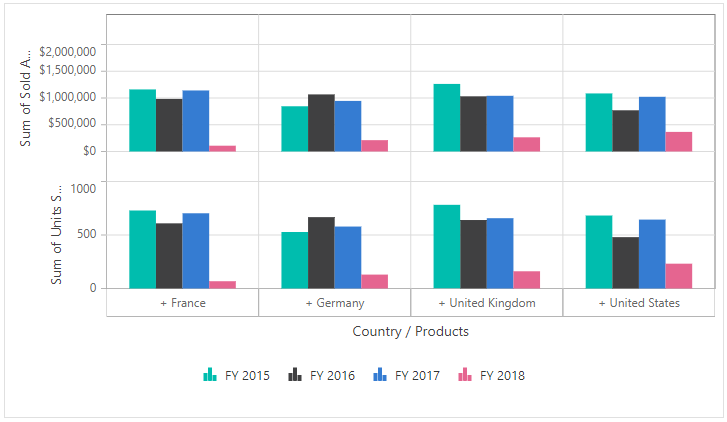
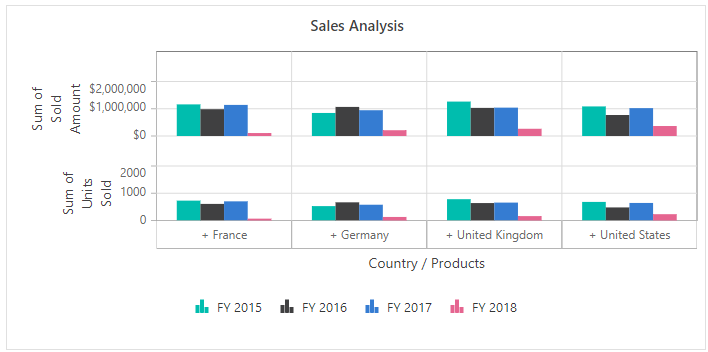
documentation(EJ2-67529): Added chart-combinedYAxis sample.

diff --git a/ej2-asp-core-mvc/code-snippet/pivot-table/pivot-chart/single-combined-y-axis/combinedYAxis.cs b/ej2-asp-core-mvc/code-snippet/pivot-table/pivot-chart/single-combined-y-axis/combinedYAxis.cs
@@ -1,0 +1,178 @@
+public ActionResult Index()
+{
+    var data = GetPivotData();
+    ViewBag.DataSource = data;
+    return View();
+}
+
+public List<PivotData> GetPivotData()
+{
+    List<PivotData> pivotData = new List<PivotData>();
+    pivotData.Add(new PivotData { Sold = 31, Amount = 52824, Country = "France", Products = "Mountain Bikes", Year = "FY 2015", Quarter = "Q1" });
+    pivotData.Add(new PivotData { Sold = 51, Amount = 86904, Country = "France", Products = "Mountain Bikes", Year = "FY 2015", Quarter = "Q2" });
+    pivotData.Add(new PivotData { Sold = 90, Amount = 153360, Country = "France", Products = "Mountain Bikes", Year = "FY 2015", Quarter = "Q3" });
+    pivotData.Add(new PivotData { Sold = 25, Amount = 42600, Country = "France", Products = "Mountain Bikes", Year = "FY 2015", Quarter = "Q4" });
+    pivotData.Add(new PivotData { Sold = 27, Amount = 46008, Country = "France", Products = "Mountain Bikes", Year = "FY 2016", Quarter = "Q1" });
+    pivotData.Add(new PivotData { Sold = 49, Amount = 83496, Country = "France", Products = "Mountain Bikes", Year = "FY 2016", Quarter = "Q2" });
+    pivotData.Add(new PivotData { Sold = 95, Amount = 161880, Country = "France", Products = "Mountain Bikes", Year = "FY 2016", Quarter = "Q3" });
+    pivotData.Add(new PivotData { Sold = 67, Amount = 114168, Country = "France", Products = "Mountain Bikes", Year = "FY 2016", Quarter = "Q4" });
+    pivotData.Add(new PivotData { Sold = 75, Amount = 127800, Country = "France", Products = "Mountain Bikes", Year = "FY 2017", Quarter = "Q1" });
+    pivotData.Add(new PivotData { Sold = 67, Amount = 114168, Country = "France", Products = "Mountain Bikes", Year = "FY 2017", Quarter = "Q2" });
+    pivotData.Add(new PivotData { Sold = 69, Amount = 117576, Country = "France", Products = "Mountain Bikes", Year = "FY 2017", Quarter = "Q3" });
+    pivotData.Add(new PivotData { Sold = 90, Amount = 153360, Country = "France", Products = "Mountain Bikes", Year = "FY 2017", Quarter = "Q4" });
+    pivotData.Add(new PivotData { Sold = 16, Amount = 27264, Country = "France", Products = "Mountain Bikes", Year = "FY 2018", Quarter = "Q1" });
+    pivotData.Add(new PivotData { Sold = 83, Amount = 124422, Country = "France", Products = "Road Bikes", Year = "FY 2015", Quarter = "Q1" });
+    pivotData.Add(new PivotData { Sold = 57, Amount = 85448, Country = "France", Products = "Road Bikes", Year = "FY 2015", Quarter = "Q2" });
+    pivotData.Add(new PivotData { Sold = 20, Amount = 29985, Country = "France", Products = "Road Bikes", Year = "FY 2015", Quarter = "Q3" });
+    pivotData.Add(new PivotData { Sold = 93, Amount = 139412, Country = "France", Products = "Road Bikes", Year = "FY 2015", Quarter = "Q4" });
+    pivotData.Add(new PivotData { Sold = 35, Amount = 52470, Country = "France", Products = "Road Bikes", Year = "FY 2016", Quarter = "Q1" });
+    pivotData.Add(new PivotData { Sold = 28, Amount = 41977, Country = "France", Products = "Road Bikes", Year = "FY 2016", Quarter = "Q2" });
+    pivotData.Add(new PivotData { Sold = 48, Amount = 71957, Country = "France", Products = "Road Bikes", Year = "FY 2016", Quarter = "Q3" });
+    pivotData.Add(new PivotData { Sold = 36, Amount = 53969, Country = "France", Products = "Road Bikes", Year = "FY 2016", Quarter = "Q4" });
+    pivotData.Add(new PivotData { Sold = 25, Amount = 37480, Country = "France", Products = "Road Bikes", Year = "FY 2017", Quarter = "Q1" });
+    pivotData.Add(new PivotData { Sold = 69, Amount = 103436, Country = "France", Products = "Road Bikes", Year = "FY 2017", Quarter = "Q2" });
+    pivotData.Add(new PivotData { Sold = 16, Amount = 23989, Country = "France", Products = "Road Bikes", Year = "FY 2017", Quarter = "Q3" });
+    pivotData.Add(new PivotData { Sold = 28, Amount = 41977, Country = "France", Products = "Road Bikes", Year = "FY 2017", Quarter = "Q4" });
+    pivotData.Add(new PivotData { Sold = 19, Amount = 28486, Country = "France", Products = "Road Bikes", Year = "FY 2018", Quarter = "Q1" });
+    pivotData.Add(new PivotData { Sold = 89, Amount = 141999.5, Country = "France", Products = "Touring Bikes", Year = "FY 2015", Quarter = "Q1" });
+    pivotData.Add(new PivotData { Sold = 91, Amount = 145190.5, Country = "France", Products = "Touring Bikes", Year = "FY 2015", Quarter = "Q2" });
+    pivotData.Add(new PivotData { Sold = 24, Amount = 38292, Country = "France", Products = "Touring Bikes", Year = "FY 2015", Quarter = "Q3" });
+    pivotData.Add(new PivotData { Sold = 75, Amount = 119662.5, Country = "France", Products = "Touring Bikes", Year = "FY 2015", Quarter = "Q4" });
+    pivotData.Add(new PivotData { Sold = 100, Amount = 159550, Country = "France", Products = "Touring Bikes", Year = "FY 2016", Quarter = "Q1" });
+    pivotData.Add(new PivotData { Sold = 30, Amount = 47865, Country = "France", Products = "Touring Bikes", Year = "FY 2016", Quarter = "Q2" });
+    pivotData.Add(new PivotData { Sold = 69, Amount = 110089.5, Country = "France", Products = "Touring Bikes", Year = "FY 2016", Quarter = "Q3" });
+    pivotData.Add(new PivotData { Sold = 25, Amount = 39887.5, Country = "France", Products = "Touring Bikes", Year = "FY 2016", Quarter = "Q4" });
+    pivotData.Add(new PivotData { Sold = 42, Amount = 67011, Country = "France", Products = "Touring Bikes", Year = "FY 2017", Quarter = "Q1" });
+    pivotData.Add(new PivotData { Sold = 94, Amount = 149977, Country = "France", Products = "Touring Bikes", Year = "FY 2017", Quarter = "Q2" });
+    pivotData.Add(new PivotData { Sold = 76, Amount = 121258, Country = "France", Products = "Touring Bikes", Year = "FY 2017", Quarter = "Q3" });
+    pivotData.Add(new PivotData { Sold = 52, Amount = 82966, Country = "France", Products = "Touring Bikes", Year = "FY 2017", Quarter = "Q4" });
+    pivotData.Add(new PivotData { Sold = 33, Amount = 52651.5, Country = "France", Products = "Touring Bikes", Year = "FY 2018", Quarter = "Q1" });
+    pivotData.Add(new PivotData { Sold = 16, Amount = 23989, Country = "Germany", Products = "Road Bikes", Year = "FY 2015", Quarter = "Q1" });
+    pivotData.Add(new PivotData { Sold = 21, Amount = 33505.5, Country = "Germany", Products = "Touring Bikes", Year = "FY 2015", Quarter = "Q1" });
+    pivotData.Add(new PivotData { Sold = 74, Amount = 126096, Country = "Germany", Products = "Mountain Bikes", Year = "FY 2015", Quarter = "Q1" });
+    pivotData.Add(new PivotData { Sold = 99, Amount = 148406, Country = "Germany", Products = "Road Bikes", Year = "FY 2016", Quarter = "Q1" });
+    pivotData.Add(new PivotData { Sold = 31, Amount = 49460.5, Country = "Germany", Products = "Touring Bikes", Year = "FY 2016", Quarter = "Q1" });
+    pivotData.Add(new PivotData { Sold = 57, Amount = 97128, Country = "Germany", Products = "Mountain Bikes", Year = "FY 2016", Quarter = "Q1" });
+    pivotData.Add(new PivotData { Sold = 41, Amount = 61464, Country = "Germany", Products = "Road Bikes", Year = "FY 2017", Quarter = "Q1" });
+    pivotData.Add(new PivotData { Sold = 64, Amount = 102112, Country = "Germany", Products = "Touring Bikes", Year = "FY 2017", Quarter = "Q1" });
+    pivotData.Add(new PivotData { Sold = 85, Amount = 144840, Country = "Germany", Products = "Mountain Bikes", Year = "FY 2017", Quarter = "Q1" });
+    pivotData.Add(new PivotData { Sold = 76, Amount = 129504, Country = "Germany", Products = "Mountain Bikes", Year = "FY 2018", Quarter = "Q1" });
+    pivotData.Add(new PivotData { Sold = 33, Amount = 56232, Country = "Germany", Products = "Mountain Bikes", Year = "FY 2015", Quarter = "Q2" });
+    pivotData.Add(new PivotData { Sold = 71, Amount = 120984, Country = "Germany", Products = "Mountain Bikes", Year = "FY 2016", Quarter = "Q2" });
+    pivotData.Add(new PivotData { Sold = 81, Amount = 138024, Country = "Germany", Products = "Mountain Bikes", Year = "FY 2017", Quarter = "Q2" });
+    pivotData.Add(new PivotData { Sold = 65, Amount = 110760, Country = "Germany", Products = "Mountain Bikes", Year = "FY 2015", Quarter = "Q3" });
+    pivotData.Add(new PivotData { Sold = 39, Amount = 66456, Country = "Germany", Products = "Mountain Bikes", Year = "FY 2016", Quarter = "Q3" });
+    pivotData.Add(new PivotData { Sold = 91, Amount = 155064, Country = "Germany", Products = "Mountain Bikes", Year = "FY 2017", Quarter = "Q3" });
+    pivotData.Add(new PivotData { Sold = 16, Amount = 27264, Country = "Germany", Products = "Mountain Bikes", Year = "FY 2015", Quarter = "Q4" });
+    pivotData.Add(new PivotData { Sold = 59, Amount = 100536, Country = "Germany", Products = "Mountain Bikes", Year = "FY 2016", Quarter = "Q4" });
+    pivotData.Add(new PivotData { Sold = 36, Amount = 61344, Country = "Germany", Products = "Mountain Bikes", Year = "FY 2017", Quarter = "Q4" });
+    pivotData.Add(new PivotData { Sold = 39, Amount = 58466, Country = "Germany", Products = "Road Bikes", Year = "FY 2018", Quarter = "Q1" });
+    pivotData.Add(new PivotData { Sold = 47, Amount = 70458, Country = "Germany", Products = "Road Bikes", Year = "FY 2015", Quarter = "Q2" });
+    pivotData.Add(new PivotData { Sold = 19, Amount = 28486, Country = "Germany", Products = "Road Bikes", Year = "FY 2016", Quarter = "Q2" });
+    pivotData.Add(new PivotData { Sold = 34, Amount = 50971, Country = "Germany", Products = "Road Bikes", Year = "FY 2017", Quarter = "Q2" });
+    pivotData.Add(new PivotData { Sold = 34, Amount = 50971, Country = "Germany", Products = "Road Bikes", Year = "FY 2015", Quarter = "Q3" });
+    pivotData.Add(new PivotData { Sold = 26, Amount = 38979, Country = "Germany", Products = "Road Bikes", Year = "FY 2016", Quarter = "Q3" });
+    pivotData.Add(new PivotData { Sold = 15, Amount = 22490, Country = "Germany", Products = "Road Bikes", Year = "FY 2017", Quarter = "Q3" });
+    pivotData.Add(new PivotData { Sold = 83, Amount = 124422, Country = "Germany", Products = "Road Bikes", Year = "FY 2015", Quarter = "Q4" });
+    pivotData.Add(new PivotData { Sold = 79, Amount = 118426, Country = "Germany", Products = "Road Bikes", Year = "FY 2016", Quarter = "Q4" });
+    pivotData.Add(new PivotData { Sold = 14, Amount = 20991, Country = "Germany", Products = "Road Bikes", Year = "FY 2017", Quarter = "Q4" });
+    pivotData.Add(new PivotData { Sold = 15, Amount = 23932.5, Country = "Germany", Products = "Touring Bikes", Year = "FY 2018", Quarter = "Q1" });
+    pivotData.Add(new PivotData { Sold = 47, Amount = 74988.5, Country = "Germany", Products = "Touring Bikes", Year = "FY 2015", Quarter = "Q2" });
+    pivotData.Add(new PivotData { Sold = 93, Amount = 148381.5, Country = "Germany", Products = "Touring Bikes", Year = "FY 2016", Quarter = "Q2" });
+    pivotData.Add(new PivotData { Sold = 13, Amount = 20741.5, Country = "Germany", Products = "Touring Bikes", Year = "FY 2017", Quarter = "Q2" });
+    pivotData.Add(new PivotData { Sold = 44, Amount = 70202, Country = "Germany", Products = "Touring Bikes", Year = "FY 2015", Quarter = "Q3" });
+    pivotData.Add(new PivotData { Sold = 59, Amount = 94134.5, Country = "Germany", Products = "Touring Bikes", Year = "FY 2016", Quarter = "Q3" });
+    pivotData.Add(new PivotData { Sold = 34, Amount = 54247, Country = "Germany", Products = "Touring Bikes", Year = "FY 2017", Quarter = "Q3" });
+    pivotData.Add(new PivotData { Sold = 48, Amount = 76584, Country = "Germany", Products = "Touring Bikes", Year = "FY 2015", Quarter = "Q4" });
+    pivotData.Add(new PivotData { Sold = 35, Amount = 55842.5, Country = "Germany", Products = "Touring Bikes", Year = "FY 2016", Quarter = "Q4" });
+    pivotData.Add(new PivotData { Sold = 71, Amount = 113280.5, Country = "Germany", Products = "Touring Bikes", Year = "FY 2017", Quarter = "Q4" });
+    pivotData.Add(new PivotData { Sold = 77, Amount = 131208, Country = "United Kingdom", Products = "Mountain Bikes", Year = "FY 2015", Quarter = "Q1" });
+    pivotData.Add(new PivotData { Sold = 92, Amount = 156768, Country = "United Kingdom", Products = "Mountain Bikes", Year = "FY 2015", Quarter = "Q2" });
+    pivotData.Add(new PivotData { Sold = 51, Amount = 86904, Country = "United Kingdom", Products = "Mountain Bikes", Year = "FY 2015", Quarter = "Q3" });
+    pivotData.Add(new PivotData { Sold = 91, Amount = 155064, Country = "United Kingdom", Products = "Mountain Bikes", Year = "FY 2015", Quarter = "Q4" });
+    pivotData.Add(new PivotData { Sold = 90, Amount = 153360, Country = "United Kingdom", Products = "Mountain Bikes", Year = "FY 2016", Quarter = "Q1" });
+    pivotData.Add(new PivotData { Sold = 56, Amount = 95424, Country = "United Kingdom", Products = "Mountain Bikes", Year = "FY 2016", Quarter = "Q2" });
+    pivotData.Add(new PivotData { Sold = 14, Amount = 23856, Country = "United Kingdom", Products = "Mountain Bikes", Year = "FY 2016", Quarter = "Q3" });
+    pivotData.Add(new PivotData { Sold = 95, Amount = 161880, Country = "United Kingdom", Products = "Mountain Bikes", Year = "FY 2016", Quarter = "Q4" });
+    pivotData.Add(new PivotData { Sold = 24, Amount = 40896, Country = "United Kingdom", Products = "Mountain Bikes", Year = "FY 2017", Quarter = "Q1" });
+    pivotData.Add(new PivotData { Sold = 39, Amount = 66456, Country = "United Kingdom", Products = "Mountain Bikes", Year = "FY 2017", Quarter = "Q2" });
+    pivotData.Add(new PivotData { Sold = 84, Amount = 143136, Country = "United Kingdom", Products = "Mountain Bikes", Year = "FY 2017", Quarter = "Q3" });
+    pivotData.Add(new PivotData { Sold = 40, Amount = 68160, Country = "United Kingdom", Products = "Mountain Bikes", Year = "FY 2017", Quarter = "Q4" });
+    pivotData.Add(new PivotData { Sold = 96, Amount = 163584, Country = "United Kingdom", Products = "Mountain Bikes", Year = "FY 2018", Quarter = "Q1" });
+    pivotData.Add(new PivotData { Sold = 24, Amount = 35981, Country = "United Kingdom", Products = "Road Bikes", Year = "FY 2015", Quarter = "Q1" });
+    pivotData.Add(new PivotData { Sold = 86, Amount = 128919, Country = "United States", Products = "Road Bikes", Year = "FY 2015", Quarter = "Q1" });
+    pivotData.Add(new PivotData { Sold = 31, Amount = 46474, Country = "United Kingdom", Products = "Road Bikes", Year = "FY 2015", Quarter = "Q2" });
+    pivotData.Add(new PivotData { Sold = 36, Amount = 53969, Country = "United States", Products = "Road Bikes", Year = "FY 2015", Quarter = "Q2" });
+    pivotData.Add(new PivotData { Sold = 40, Amount = 59965, Country = "United Kingdom", Products = "Road Bikes", Year = "FY 2015", Quarter = "Q3" });
+    pivotData.Add(new PivotData { Sold = 69, Amount = 103436, Country = "United States", Products = "Road Bikes", Year = "FY 2015", Quarter = "Q3" });
+    pivotData.Add(new PivotData { Sold = 95, Amount = 142410, Country = "United Kingdom", Products = "Road Bikes", Year = "FY 2015", Quarter = "Q4" });
+    pivotData.Add(new PivotData { Sold = 95, Amount = 142410, Country = "United States", Products = "Road Bikes", Year = "FY 2015", Quarter = "Q4" });
+    pivotData.Add(new PivotData { Sold = 30, Amount = 44975, Country = "United Kingdom", Products = "Road Bikes", Year = "FY 2016", Quarter = "Q1" });
+    pivotData.Add(new PivotData { Sold = 11, Amount = 16494, Country = "United States", Products = "Road Bikes", Year = "FY 2016", Quarter = "Q1" });
+    pivotData.Add(new PivotData { Sold = 97, Amount = 145408, Country = "United Kingdom", Products = "Road Bikes", Year = "FY 2016", Quarter = "Q2" });
+    pivotData.Add(new PivotData { Sold = 16, Amount = 23989, Country = "United States", Products = "Road Bikes", Year = "FY 2016", Quarter = "Q2" });
+    pivotData.Add(new PivotData { Sold = 40, Amount = 59965, Country = "United Kingdom", Products = "Road Bikes", Year = "FY 2016", Quarter = "Q3" });
+    pivotData.Add(new PivotData { Sold = 68, Amount = 101937, Country = "United States", Products = "Road Bikes", Year = "FY 2016", Quarter = "Q3" });
+    pivotData.Add(new PivotData { Sold = 11, Amount = 16494, Country = "United Kingdom", Products = "Road Bikes", Year = "FY 2016", Quarter = "Q4" });
+    pivotData.Add(new PivotData { Sold = 27, Amount = 40478, Country = "United States", Products = "Road Bikes", Year = "FY 2016", Quarter = "Q4" });
+    pivotData.Add(new PivotData { Sold = 45, Amount = 67460, Country = "United Kingdom", Products = "Road Bikes", Year = "FY 2017", Quarter = "Q1" });
+    pivotData.Add(new PivotData { Sold = 100, Amount = 149905, Country = "United States", Products = "Road Bikes", Year = "FY 2017", Quarter = "Q1" });
+    pivotData.Add(new PivotData { Sold = 70, Amount = 104935, Country = "United Kingdom", Products = "Road Bikes", Year = "FY 2017", Quarter = "Q2" });
+    pivotData.Add(new PivotData { Sold = 83, Amount = 124422, Country = "United States", Products = "Road Bikes", Year = "FY 2017", Quarter = "Q2" });
+    pivotData.Add(new PivotData { Sold = 100, Amount = 149905, Country = "United Kingdom", Products = "Road Bikes", Year = "FY 2017", Quarter = "Q3" });
+    pivotData.Add(new PivotData { Sold = 18, Amount = 26987, Country = "United States", Products = "Road Bikes", Year = "FY 2017", Quarter = "Q3" });
+    pivotData.Add(new PivotData { Sold = 70, Amount = 104935, Country = "United Kingdom", Products = "Road Bikes", Year = "FY 2017", Quarter = "Q4" });
+    pivotData.Add(new PivotData { Sold = 81, Amount = 121424, Country = "United States", Products = "Road Bikes", Year = "FY 2017", Quarter = "Q4" });
+    pivotData.Add(new PivotData { Sold = 20, Amount = 29985, Country = "United Kingdom", Products = "Road Bikes", Year = "FY 2018", Quarter = "Q1" });
+    pivotData.Add(new PivotData { Sold = 99, Amount = 148406, Country = "United States", Products = "Road Bikes", Year = "FY 2018", Quarter = "Q1" });
+    pivotData.Add(new PivotData { Sold = 43, Amount = 73272, Country = "United States", Products = "Mountain Bikes", Year = "FY 2015", Quarter = "Q1" });
+    pivotData.Add(new PivotData { Sold = 43, Amount = 73272, Country = "United States", Products = "Mountain Bikes", Year = "FY 2015", Quarter = "Q2" });
+    pivotData.Add(new PivotData { Sold = 52, Amount = 88608, Country = "United States", Products = "Mountain Bikes", Year = "FY 2015", Quarter = "Q3" });
+    pivotData.Add(new PivotData { Sold = 91, Amount = 155064, Country = "United States", Products = "Mountain Bikes", Year = "FY 2015", Quarter = "Q4" });
+    pivotData.Add(new PivotData { Sold = 37, Amount = 63048, Country = "United States", Products = "Mountain Bikes", Year = "FY 2016", Quarter = "Q1" });
+    pivotData.Add(new PivotData { Sold = 41, Amount = 69864, Country = "United States", Products = "Mountain Bikes", Year = "FY 2016", Quarter = "Q2" });
+    pivotData.Add(new PivotData { Sold = 49, Amount = 83496, Country = "United States", Products = "Mountain Bikes", Year = "FY 2016", Quarter = "Q3" });
+    pivotData.Add(new PivotData { Sold = 23, Amount = 39192, Country = "United States", Products = "Mountain Bikes", Year = "FY 2016", Quarter = "Q4" });
+    pivotData.Add(new PivotData { Sold = 67, Amount = 114168, Country = "United States", Products = "Mountain Bikes", Year = "FY 2017", Quarter = "Q1" });
+    pivotData.Add(new PivotData { Sold = 85, Amount = 144840, Country = "United States", Products = "Mountain Bikes", Year = "FY 2017", Quarter = "Q2" });
+    pivotData.Add(new PivotData { Sold = 25, Amount = 42600, Country = "United States", Products = "Mountain Bikes", Year = "FY 2017", Quarter = "Q3" });
+    pivotData.Add(new PivotData { Sold = 28, Amount = 47712, Country = "United States", Products = "Mountain Bikes", Year = "FY 2017", Quarter = "Q4" });
+    pivotData.Add(new PivotData { Sold = 53, Amount = 90312, Country = "United States", Products = "Mountain Bikes", Year = "FY 2018", Quarter = "Q1" });
+    pivotData.Add(new PivotData { Sold = 82, Amount = 130831, Country = "United Kingdom", Products = "Touring Bikes", Year = "FY 2015", Quarter = "Q1" });
+    pivotData.Add(new PivotData { Sold = 41, Amount = 65415.5, Country = "United States", Products = "Touring Bikes", Year = "FY 2015", Quarter = "Q1" });
+    pivotData.Add(new PivotData { Sold = 60, Amount = 95730, Country = "United Kingdom", Products = "Touring Bikes", Year = "FY 2015", Quarter = "Q2" });
+    pivotData.Add(new PivotData { Sold = 71, Amount = 113280.5, Country = "United States", Products = "Touring Bikes", Year = "FY 2015", Quarter = "Q2" });
+    pivotData.Add(new PivotData { Sold = 45, Amount = 71797.5, Country = "United Kingdom", Products = "Touring Bikes", Year = "FY 2015", Quarter = "Q3" });
+    pivotData.Add(new PivotData { Sold = 21, Amount = 33505.5, Country = "United States", Products = "Touring Bikes", Year = "FY 2015", Quarter = "Q3" });
+    pivotData.Add(new PivotData { Sold = 94, Amount = 149977, Country = "United Kingdom", Products = "Touring Bikes", Year = "FY 2015", Quarter = "Q4" });
+    pivotData.Add(new PivotData { Sold = 34, Amount = 54247, Country = "United States", Products = "Touring Bikes", Year = "FY 2015", Quarter = "Q4" });
+    pivotData.Add(new PivotData { Sold = 14, Amount = 22337, Country = "United Kingdom", Products = "Touring Bikes", Year = "FY 2016", Quarter = "Q1" });
+    pivotData.Add(new PivotData { Sold = 76, Amount = 121258, Country = "United States", Products = "Touring Bikes", Year = "FY 2016", Quarter = "Q1" });
+    pivotData.Add(new PivotData { Sold = 50, Amount = 79775, Country = "United Kingdom", Products = "Touring Bikes", Year = "FY 2016", Quarter = "Q2" });
+    pivotData.Add(new PivotData { Sold = 75, Amount = 119662.5, Country = "United States", Products = "Touring Bikes", Year = "FY 2016", Quarter = "Q2" });
+    pivotData.Add(new PivotData { Sold = 49, Amount = 78179.5, Country = "United Kingdom", Products = "Touring Bikes", Year = "FY 2016", Quarter = "Q3" });
+    pivotData.Add(new PivotData { Sold = 40, Amount = 63820, Country = "United States", Products = "Touring Bikes", Year = "FY 2016", Quarter = "Q3" });
+    pivotData.Add(new PivotData { Sold = 94, Amount = 149977, Country = "United Kingdom", Products = "Touring Bikes", Year = "FY 2016", Quarter = "Q4" });
+    pivotData.Add(new PivotData { Sold = 17, Amount = 27123.5, Country = "United States", Products = "Touring Bikes", Year = "FY 2016", Quarter = "Q4" });
+    pivotData.Add(new PivotData { Sold = 45, Amount = 71797.5, Country = "United Kingdom", Products = "Touring Bikes", Year = "FY 2017", Quarter = "Q1" });
+    pivotData.Add(new PivotData { Sold = 56, Amount = 89348, Country = "United States", Products = "Touring Bikes", Year = "FY 2017", Quarter = "Q1" });
+    pivotData.Add(new PivotData { Sold = 75, Amount = 119662.5, Country = "United Kingdom", Products = "Touring Bikes", Year = "FY 2017", Quarter = "Q2" });
+    pivotData.Add(new PivotData { Sold = 11, Amount = 17550.5, Country = "United States", Products = "Touring Bikes", Year = "FY 2017", Quarter = "Q2" });
+    pivotData.Add(new PivotData { Sold = 54, Amount = 86157, Country = "United Kingdom", Products = "Touring Bikes", Year = "FY 2017", Quarter = "Q3" });
+    pivotData.Add(new PivotData { Sold = 14, Amount = 22337, Country = "United States", Products = "Touring Bikes", Year = "FY 2017", Quarter = "Q3" });
+    pivotData.Add(new PivotData { Sold = 11, Amount = 17550.5, Country = "United Kingdom", Products = "Touring Bikes", Year = "FY 2017", Quarter = "Q4" });
+    pivotData.Add(new PivotData { Sold = 76, Amount = 121258, Country = "United States", Products = "Touring Bikes", Year = "FY 2017", Quarter = "Q4" });
+    pivotData.Add(new PivotData { Sold = 45, Amount = 71797.5, Country = "United Kingdom", Products = "Touring Bikes", Year = "FY 2018", Quarter = "Q1" });
+    pivotData.Add(new PivotData { Sold = 80, Amount = 127640, Country = "United States", Products = "Touring Bikes", Year = "FY 2018", Quarter = "Q1" });
+    return pivotData;
+}
+
+public class PivotData
+{
+    public int Sold { get; set; }
+    public double Amount { get; set; }
+    public string Country { get; set; }
+    public string Products { get; set; }
+    public string Year { get; set; }
+    public string Quarter { get; set; }
+}

diff --git a/ej2-asp-core-mvc/pivot-table/EJ2_ASP.NETCORE/pivot-chart.md b/ej2-asp-core-mvc/pivot-table/EJ2_ASP.NETCORE/pivot-chart.md
@@ -593,11 +593,44 @@ In the following code sample, the pivot chart can be seen as a single chart with
 
 
 
-### Show member based chart series
+Additionally, to display chart series for multiple values within a single y-axis, set the properties [`enableMultipleAxis`](https://help.syncfusion.com/cr/aspnetcore-js2/Syncfusion.EJ2.PivotView.PivotViewChartSettings.html#Syncfusion_EJ2_PivotView_PivotViewChartSettings_EnableMultipleAxis) to **true** and the [`multipleAxisMode`](https://help.syncfusion.com/cr/aspnetcore-js2/Syncfusion.EJ2.PivotView.PivotViewChartSettings.html#Syncfusion_EJ2_PivotView_PivotViewChartSettings_MultipleAxisMode) to **Combined**, in the [`ChartSettings`](https://help.syncfusion.com/cr/aspnetcore-js2/Syncfusion.EJ2.PivotView.PivotViewChartSettings.html).
 
-When multiple axes are enabled, the user can create each chart series with a unique color palette based on members by setting the [`showMemberSeries`](https://help.syncfusion.com/cr/aspnetcore-js2/Syncfusion.EJ2.PivotView.PivotViewChartSettings.html#Syncfusion_EJ2_PivotView_PivotViewChartSettings_ShowMemberSeries) property in [`chartSettings`](https://help.syncfusion.com/cr/aspnetcore-js2/Syncfusion.EJ2.PivotView.PivotViewChartSettings.html) to **true**. As a result, user can easily identify each member enclosed chart series consistently across different measures in the entire chart area.
+> The y-axis range values will be formatted using the first value field on the value axis. For example, if the first value field is in currency format and the remaining value fields are in different number formats or no format, the y-axis range values will be displayed in the currency format of the first value field.
 
-Furthermore, with a single click over the legend item, you can show or hide specific chart series visibility based on members across different measures in the entire chart area.
+The pivot chart in the following code sample can be seen as a single chart with multiple value fields such as **Sold** and **Amount** drawn as a single y-axis.
+
+{% if page.publishingplatform == "aspnet-core" %}
+
+{% tabs %}
+{% highlight cshtml tabtitle="CSHTML" %}
+{% include code-snippet/pivot-table/pivot-chart/single-combined-y-axis/tagHelper %}
+{% endhighlight %}
+{% highlight c# tabtitle="combinedYAxis.cs" %}
+{% include code-snippet/pivot-table/pivot-chart/single-combined-y-axis/combinedYAxis.cs %}
+{% endhighlight %}
+{% endtabs %}
+
+{% elsif page.publishingplatform == "aspnet-mvc" %}
+
+{% tabs %}
+{% highlight razor tabtitle="CSHTML" %}
+{% include code-snippet/pivot-table/pivot-chart/single-combined-y-axis/razor %}
+{% endhighlight %}
+{% highlight c# tabtitle="combinedYAxis.cs" %}
+{% include code-snippet/pivot-table/pivot-chart/single-combined-y-axis/combinedYAxis.cs %}
+{% endhighlight %}
+{% endtabs %}
+{% endif %}
+
+
+
+![output](images/single-combined-y-axis.png)
+
+### Show point color based on members
+
+When multiple axes are enabled, you can display the same color for each member in the column axis by setting the [`showPointColorByMembers`](https://help.syncfusion.com/cr/aspnetcore-js2/Syncfusion.EJ2.PivotView.PivotViewChartSettings.html#Syncfusion_EJ2_PivotView_PivotViewChartSettings_ShowPointColorByMembers) property to **true** in the [`chartSettings`](https://help.syncfusion.com/cr/aspnetcore-js2/Syncfusion.EJ2.PivotView.PivotViewChartSettings.html). As a result, the end user can easily identify each member across different measures in the entire chart.
+
+Furthermore, end user can see or hide specific members across different measures in the entire chart with a single click on the legend item.
 
 {% if page.publishingplatform == "aspnet-core" %}
 
@@ -624,7 +657,7 @@ Furthermore, with a single click over the legend item, you can show or hide spec
 
 
 
-![Chart series displayed with same colors for same points/members](images/showMemberSeries.png)
+![PivotChart with Show member based chart series](images/showMemberSeries.png)
 
 ## Series Customization
 

diff --git a/ej2-asp-core-mvc/pivot-table/EJ2_ASP.MVC/pivot-chart.md b/ej2-asp-core-mvc/pivot-table/EJ2_ASP.MVC/pivot-chart.md
@@ -591,11 +591,44 @@ In the following code sample, the pivot chart can be seen as a single chart with
 
 
 
-### Show member based chart series
+Additionally, to display chart series for multiple values within a single y-axis, set the properties [`EnableMultipleAxis`](https://help.syncfusion.com/cr/aspnetmvc-js2/Syncfusion.EJ2.PivotView.PivotViewChartSettings.html#Syncfusion_EJ2_PivotView_PivotViewChartSettings_EnableMultipleAxis) to **true** and the [`MultipleAxisMode`](https://help.syncfusion.com/cr/aspnetmvc-js2/Syncfusion.EJ2.PivotView.PivotViewChartSettings.html#Syncfusion_EJ2_PivotView_PivotViewChartSettings_MultipleAxisMode) to **Combined**, in the [`ChartSettings`](https://help.syncfusion.com/cr/aspnetmvc-js2/Syncfusion.EJ2.PivotView.PivotViewChartSettings.html).
 
-When multiple axes are enabled, the user can create each chart series with a unique color palette based on members by setting the [`ShowMemberSeries`](https://help.syncfusion.com/cr/aspnetmvc-js2/Syncfusion.EJ2.PivotView.PivotViewChartSettings.html#Syncfusion_EJ2_PivotView_PivotViewChartSettings_ShowMemberSeries) property in [`ChartSettings`](https://help.syncfusion.com/cr/aspnetmvc-js2/Syncfusion.EJ2.PivotView.PivotViewChartSettings.html) to **true**. As a result, user can easily identify each member enclosed chart series consistently across different measures in the entire chart area.
+> The y-axis range values will be formatted using the first value field on the value axis. For example, if the first value field is in currency format and the remaining value fields are in different number formats or no format, the y-axis range values will be displayed in the currency format of the first value field.
 
-Furthermore, with a single click over the legend item, you can show or hide specific chart series visibility based on members across different measures in the entire chart area.
+The pivot chart in the following code sample can be seen as a single chart with multiple value fields such as **Sold** and **Amount** drawn as a single y-axis.
+
+{% if page.publishingplatform == "aspnet-core" %}
+
+{% tabs %}
+{% highlight cshtml tabtitle="CSHTML" %}
+{% include code-snippet/pivot-table/pivot-chart/single-combined-y-axis/tagHelper %}
+{% endhighlight %}
+{% highlight c# tabtitle="combinedYAxis.cs" %}
+{% include code-snippet/pivot-table/pivot-chart/single-combined-y-axis/combinedYAxis.cs %}
+{% endhighlight %}
+{% endtabs %}
+
+{% elsif page.publishingplatform == "aspnet-mvc" %}
+
+{% tabs %}
+{% highlight razor tabtitle="CSHTML" %}
+{% include code-snippet/pivot-table/pivot-chart/single-combined-y-axis/razor %}
+{% endhighlight %}
+{% highlight c# tabtitle="combinedYAxis.cs" %}
+{% include code-snippet/pivot-table/pivot-chart/single-combined-y-axis/combinedYAxis.cs %}
+{% endhighlight %}
+{% endtabs %}
+{% endif %}
+
+
+
+![output](images/single-combined-y-axis.png)
+
+### Show point color based on members
+
+When multiple axes are enabled, you can display the same color for each member in the column axis by setting the [`showPointColorByMembers`](https://help.syncfusion.com/cr/aspnetmvc-js2/Syncfusion.EJ2.PivotView.PivotViewChartSettings.html#Syncfusion_EJ2_PivotView_PivotViewChartSettings_ShowPointColorByMembers) property to **true** in the [`chartSettings`](https://help.syncfusion.com/cr/aspnetmvc-js2/Syncfusion.EJ2.PivotView.PivotViewChartSettings.html). As a result, the end user can easily identify each member across different measures in the entire chart.
+
+Furthermore, end user can see or hide specific members across different measures in the entire chart with a single click on the legend item.
 
 {% if page.publishingplatform == "aspnet-core" %}
 
@@ -622,7 +655,7 @@ Furthermore, with a single click over the legend item, you can show or hide spec
 
 
 
-![Chart series displayed with same colors for same points/members](images/showMemberSeries.png)
+![PivotChart with Show member based chart series](images/showMemberSeries.png)
 
 ## Series Customization
 

diff --git a/ej2-asp-core-mvc/pivot-table/EJ2_ASP.MVC/tool-bar.md b/ej2-asp-core-mvc/pivot-table/EJ2_ASP.MVC/tool-bar.md
@@ -101,9 +101,10 @@ In the chart, the user can switch from single axis to multiple axes with the hel
 
 ![output](images/chart-option.png)
 
+<!-- markdownlint-disable MD028 -->
 <!-- markdownlint-disable MD009 -->
 
-There are two modes available in **Multiple Axis** option: `Stacked` and `Single`. The modes can be changed using “Multiple Axis Mode” drop-down list which appears while clicking the **More...** option.
+There are three modes available in **Multiple Axis** option: `Stacked`, `Single` and `Combined`. The modes can be changed using “Multiple Axis Mode” drop-down list which appears while clicking the **More...** option.
 
 ![output](images/multiple-axis-mode.png)
 

diff --git a/ej2-asp-core-mvc/pivot-table/EJ2_ASP.NETCORE/tool-bar.md b/ej2-asp-core-mvc/pivot-table/EJ2_ASP.NETCORE/tool-bar.md
@@ -101,9 +101,10 @@ In the chart, the user can switch from single axis to multiple axes with the hel
 
 ![output](images/chart-option.png)
 
+<!-- markdownlint-disable MD028 -->
 <!-- markdownlint-disable MD009 -->
 
-There are two modes available in **Multiple Axis** option: `Stacked` and `Single`. The modes can be changed using “Multiple Axis Mode” drop-down list which appears while clicking the **More...** option.
+There are three modes available in **Multiple Axis** option: `Stacked`, `Single` and `Combined`. The modes can be changed using “Multiple Axis Mode” drop-down list which appears while clicking the **More...** option.
 
 ![output](images/multiple-axis-mode.png)
 
